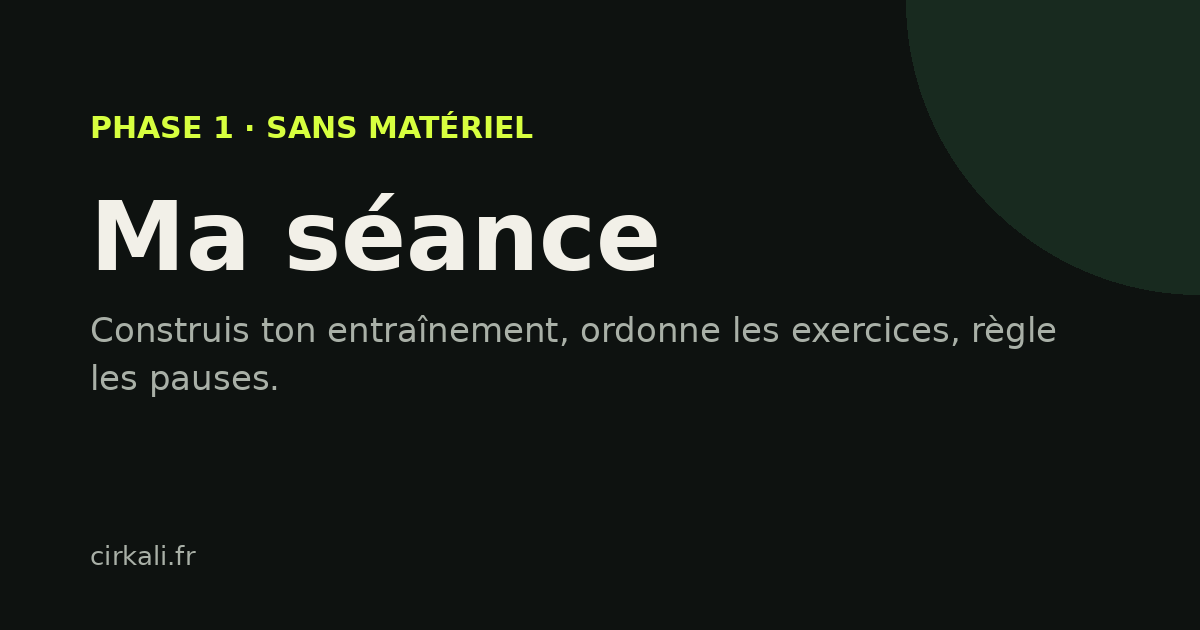
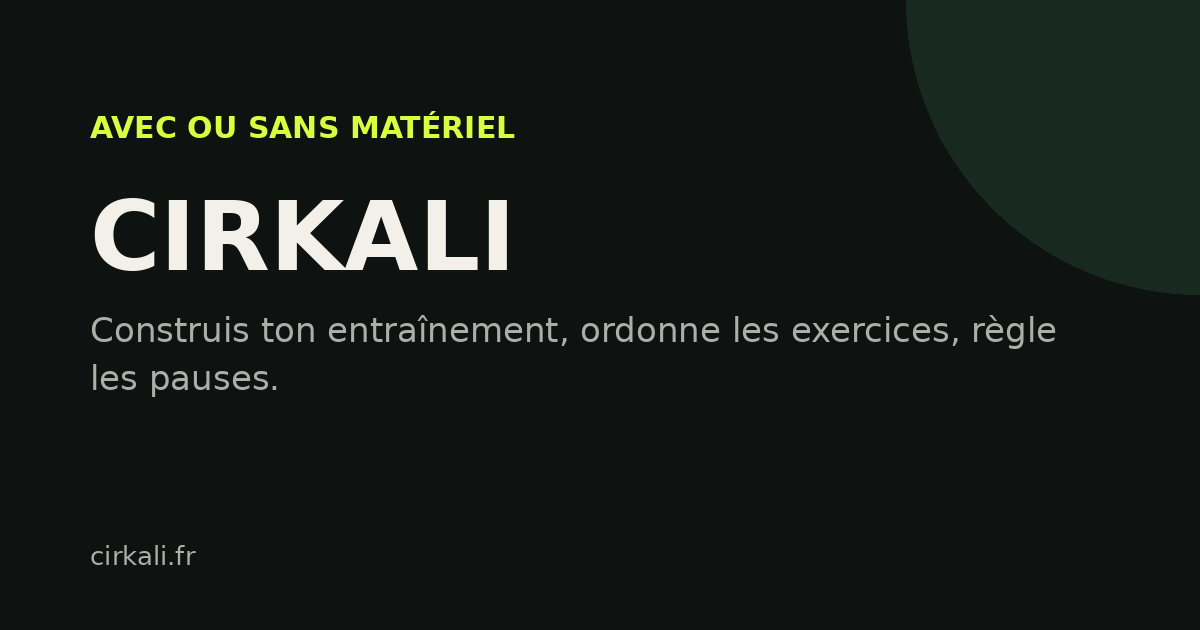
PageSpeed, second tour : charset, preload des polices, CSS integre
charset. Regression de 38b9828 : le commentaire expliquant le report de GA et
le chargeur lui-meme occupaient les 1800 premiers octets du <head> et
repoussaient <meta charset> au-dela de la limite de 1024, ou un navigateur
recommence son analyse du document. La balise repasse en tout premier, et
check-build.ts verifie desormais sa position — rien d'autre ne l'aurait vu.

Preload des polices. Elles etaient au bout de la chaine critique (HTML ->
feuille -> police, 538 ms mesures) puisque les @font-face vivent dans le CSS.
Deux balises sur l'accueil et sur les deux gabarits generes les font partir en
meme temps que le CSS. `crossorigin` est obligatoire meme en meme origine :
sans lui le prechargement ne correspond pas a la requete reelle et la police
part deux fois. Seuls les sous-ensembles latin, qui portent les accents des
cinq langues ; latin-ext ne sert qu'a des caracteres rares.

CSS integre. Derniere requete bloquante de la page : un aller-retour complet
pour 5,6 Ko. Cinquieme plugin de la famille transformIndexHtml, en order:'post'
pour avoir une balise a remplacer, inactif en dev faute de bundle. Gratuit sur
les visites repetees — le HTML est de toute facon revalide, donc le CSS voyage
avec lui ou pas du tout. L'accueil passe de 13,9 a 20,2 Ko gzip. Les 310 fiches
gardent leur feuille separee : la, une seule mise en cache sert 310 documents.

Piege corrige au passage : Vite avait calcule les url() des @font-face pour un
[…]

Changed region(s): [[0.0617, 0.3016, 0.555, 0.4524], [0.0617, 0.181, 0.4625, 0.2413]]

diff --git a/vite.config.ts b/vite.config.ts
@@ -121,6 +121,75 @@ function stampBuildDate(): Plugin {
  * plugins. La CSS garde des valeurs de repli, sans lesquelles une injection
  * ratee produirait une declaration invalide donc AUCUNE reservation.
  */
+/**
+ * Integre la feuille de style de l'accueil dans le HTML, au lieu de la lier.
+ *
+ * Un `<link rel="stylesheet">` bloque le rendu par definition : le navigateur
+ * ne peint rien tant qu'il ne l'a pas recu. Mesure sur cirkali.fr, c'etait un
+ * aller-retour reseau complet pour 5,6 Ko compresses — la derniere requete
+ * bloquante de la page une fois Google Fonts elimine.
+ *
+ * Pourquoi c'est gratuit ici, alors que « inliner le CSS » coute normalement le
+ * cache : le HTML est servi en `max-age=0, must-revalidate`, donc il est de
+ * toute facon revalide a chaque visite. Le CSS integre voyage avec lui ou pas
+ * du tout — les visites repetees font le meme nombre d'aller-retours qu'avant.
+ * Seule la premiere visite y gagne, et elle y gagne entierement.
+ *
+ * La balise est remplacee SUR PLACE plutot qu'ajoutee ailleurs : c'est ce qui
+ * garantit que le <style> de `injectLibraryRows()` (insere juste avant
+ * </head>, donc apres) continue de gagner sur les valeurs de repli du fichier
+ * CSS. Inverser les deux ferait retomber `--lib-rows-2` sur son repli et
+ * remonter le CLS, sans que rien ne casse visiblement.
+ *
+ * Ne concerne QUE l'accueil. Les 310 fiches gardent `exercises/style.css` en
+ * fichier separe : une seule feuille mise en cache puis reutilisee par 310
+ * documents, l'integrer la ferait payer 310 fois.
+ */
+function inlineStyles(): Plugin {
+  return {
+    name: 'inline-styles',
+    transformIndexHtml: {
+      // `post` : il faut que Vite ait deja injecte sa balise pour qu'il y ait
+      // quelque chose a remplacer.
+      order: 'post',
+      handler(html, ctx) {
+        // En `npm run dev` il n'y a pas de bundle : Vite sert le CSS par
+        // injection JS, il n'y a ni fichier ni balise a reprendre.
+        if (!ctx.bundle) return html;
+
+        return html.replace(/<link\b[^>]*rel="stylesheet"[^>]*>/g, (tag) => {
+          const href = /href="([^"]+)"/.exec(tag)?.[1];
+          if (!href) return tag;
+
+          const asset = ctx.bundle?.[href.replace(/^\.?\//, '')];
+          if (!asset || asset.type !== 'asset') {
+            throw new Error(
+              `inline-styles : "${href}" est liee dans index.html mais absente ` +
+                `du bundle. La forme des noms d'assets a change — sans ce ` +
+                `remplacement la page repasse en rendu bloquant, en silence.`,
+            );
+          }
+
+          const css =
+            typeof asset.source === 'string'
+              ? asset.source
+              : Buffer.from(asset.source).toString('utf8');
+
+          // Rebaser les url() relatives : Vite les a calculees pour un fichier
+          // servi depuis /assets/, or ce CSS part maintenant depuis la racine.
+          // Les @font-face sortaient en `url(../fonts/…)`, ce qui ne visait le
+          // bon fichier que parce qu'un navigateur refuse de remonter au-dessus
+          // de la racine — juste par accident, et faux des que la page n'est
+          // plus a la racine. Seules les polices sont concernees ; le chevron
+          // des selects est une data: URI, insensible au chemin.
+          const rebased = css.replace(/url\((['"]?)\.\.\//g, 'url($1/');
+          return `<style>${rebased}</style>`;
+        });
+      },
+    },
+  };
+}
+
 function injectLibraryRows(): Plugin {
   return {
     name: 'inject-library-rows',
@@ -268,7 +337,13 @@ export default defineConfig({
   // Chemins relatifs : le build fonctionne sur user.github.io/<depot>/
   // sans avoir a coder le nom du depot en dur.
   base: './',
-  plugins: [stampBuildDate(), injectExerciseIndex(), fillStaticTranslations(), injectLibraryRows()],
+  plugins: [
+    stampBuildDate(),
+    injectExerciseIndex(),
+    fillStaticTranslations(),
+    injectLibraryRows(),
+    inlineStyles(),
+  ],
   // `host: true` expose le serveur sur le reseau local : la seance se teste
   // depuis le telephone, qui est l'appareil vise.
   server: { port: 8000, host: true, strictPort: true },

diff --git a/index.html b/index.html
@@ -2,6 +2,16 @@
 <html lang="fr">
   <head>
     <!--
+      L'encodage EN PREMIER, avant tout commentaire et tout script. Un
+      navigateur qui ne l'a pas lu dans les 1024 premiers octets recommence son
+      analyse du document, et peut afficher des caracteres casses en attendant.
+      Le commentaire ci-dessous et le chargeur GA l'avaient repousse a l'octet
+      1824 — piege verifie, signale par Lighthouse. Ne rien inserer au-dessus de
+      cette ligne ; `check-build.ts` verifie la position a chaque build.
+    -->
+    <meta charset="utf-8" />
+
+    <!--
       Google tag (gtag.js), charge APRES l'affichage et non pendant.
 
       Le script pese 166 Ko pour 71 Ko reellement utilises, occupe 126 ms de
@@ -41,7 +51,6 @@
       });
     </script>
 
-    <meta charset="utf-8" />
     <meta name="viewport" content="width=device-width, initial-scale=1, viewport-fit=cover" />
     <!-- ~155 caracteres : au-dela, Google tronque dans ses resultats. -->
     <meta
@@ -127,7 +136,25 @@
       site, declarees en @font-face dans src/styles/tokens.css. Ne pas les y
       remettre — cette feuille tierce bloquait le rendu 750 ms et imposait deux
       poignees de main DNS+TLS avant le premier caractere affiche.
+
+      Le preload existe parce que les @font-face vivent dans le CSS : sans lui,
+      le navigateur doit lire le HTML, PUIS telecharger la feuille, PUIS y
+      decouvrir les polices — trois niveaux de profondeur, mesures a 538 ms de
+      latence de chemin critique. Ces deux lignes les font partir en meme temps
+      que le CSS.
+
+      `crossorigin` est OBLIGATOIRE, y compris en meme origine : une requete de
+      police part toujours en mode CORS, et sans cet attribut le prechargement
+      ne correspond pas a la requete reelle — la police est alors telechargee
+      deux fois, ce qui est pire que de ne rien precharger.
+
+      Seuls les sous-ensembles `latin` : ce sont eux qui portent les accents du
+      francais, de l'espagnol, de l'allemand et de l'italien (verifie glyphe par
+      glyphe). `latin-ext` ne sert qu'a des caracteres rares — le precharger
+      couterait 47 Ko que la plupart des pages n'affichent jamais.
     -->
+    <link rel="preload" as="font" type="font/woff2" crossorigin href="/fonts/archivo-latin.woff2" />
+    <link rel="preload" as="font" type="font/woff2" crossorigin href="/fonts/manrope-latin.woff2" />
   </head>
   <body>
     <main class="wrap">

diff --git a/scripts/check-build.ts b/scripts/check-build.ts
@@ -84,6 +84,40 @@ check('__BUILD_DATE__ remplace', !index.includes('__BUILD_DATE__'));
 // reservation de hauteur redevient fausse des que la bibliotheque grandit,
 // sans que rien ne casse (voir injectLibraryRows(), vite.config.ts).
 check('--lib-rows-2 injecte pour la reservation CLS', index.includes('--lib-rows-2:'));
+
+// Un navigateur qui n'a pas lu l'encodage dans les 1024 premiers octets
+// recommence son analyse du document. Regression deja vue : un commentaire et
+// le chargeur GA ajoutes en tete du <head> avaient repousse la balise a
+// l'octet 1824, sans que rien ne casse — seul Lighthouse l'a signale.
+const charsetAt = Buffer.from(index, 'utf8').indexOf('<meta charset');
+check(
+  '<meta charset> dans les 1024 premiers octets',
+  charsetAt >= 0 && charsetAt < 1024,
+  charsetAt < 0 ? 'balise absente' : `a l'octet ${charsetAt}`,
+);
+
+// Le CSS de l'accueil est integre (plugin inline-styles, vite.config.ts) : plus
+// aucune requete bloquante avant le premier pixel. Si la forme des assets de
+// Vite changeait, le remplacement echouerait et la page repasserait en rendu
+// bloquant sans que rien d'autre ne le signale.
+check('le CSS de l\'accueil est integre', /<style>[^]{2000,}<\/style>/.test(index));
+check(
+  'aucune feuille de style liee dans l\'accueil',
+  !/<link\b[^>]*rel="stylesheet"/.test(index),
+  /<link\b[^>]*rel="stylesheet"[^>]*>/.exec(index)?.[0] ?? '',
+);
+
+// Les polices sont declarees dans le CSS : sans preload elles ne partent
+// qu'apres son telechargement. `crossorigin` est obligatoire meme en meme
+// origine — sans lui le prechargement ne correspond pas a la requete reelle et
+// la police est telechargee deux fois.
+for (const font of ['archivo-latin', 'manrope-latin']) {
+  check(
+    `${font}.woff2 preloade avec crossorigin`,
+    new RegExp(`<link\\b[^>]*rel="preload"[^>]*crossorigin[^>]*${font}\\.woff2`).test(index) ||
+      new RegExp(`<link\\b[^>]*rel="preload"[^>]*${font}\\.woff2[^>]*crossorigin`).test(index),
+  );
+}
 check('marqueur EXERCISE_INDEX remplace', !index.includes('<!--EXERCISE_INDEX-->'));
 
 console.log('\nPages generees pour les IA');

diff --git a/scripts/build-exercise-pages.ts b/scripts/build-exercise-pages.ts
@@ -261,7 +261,14 @@ ${hreflangTags(key)}
       ])}
     </script>
 
-    <!-- Polices servies par le site : @font-face dans exercise-page.css. -->
+    <!--
+      Polices servies par le site : @font-face dans exercise-page.css. Le
+      preload les sort du bout de la chaine (HTML -> feuille -> police) ;
+      L'attribut crossorigin est obligatoire meme en meme origine, une requete
+      de police partant toujours en mode CORS. Voir index.html pour le detail.
+    -->
+    <link rel="preload" as="font" type="font/woff2" crossorigin href="/fonts/archivo-latin.woff2" />
+    <link rel="preload" as="font" type="font/woff2" crossorigin href="/fonts/manrope-latin.woff2" />
     <link rel="stylesheet" href="../style.css" />
   </head>
   <body>
@@ -488,7 +495,14 @@ function renderAiPlanPage(dict: Translations): string {
       ])}
     </script>
 
-    <!-- Polices servies par le site : @font-face dans exercise-page.css. -->
+    <!--
+      Polices servies par le site : @font-face dans exercise-page.css. Le
+      preload les sort du bout de la chaine (HTML -> feuille -> police) ;
+      L'attribut crossorigin est obligatoire meme en meme origine, une requete
+      de police partant toujours en mode CORS. Voir index.html pour le detail.
+    -->
+    <link rel="preload" as="font" type="font/woff2" crossorigin href="/fonts/archivo-latin.woff2" />
+    <link rel="preload" as="font" type="font/woff2" crossorigin href="/fonts/manrope-latin.woff2" />
     <link rel="stylesheet" href="exercises/style.css" />
   </head>
   <body>

diff --git a/scripts/generate-og-image.py b/scripts/generate-og-image.py
@@ -29,8 +29,15 @@ FONT_DIR = Path("/usr/share/fonts/truetype/dejavu")
 BOLD = FONT_DIR / "DejaVuSans-Bold.ttf"
 REGULAR = FONT_DIR / "DejaVuSans.ttf"
 
-EYEBROW = "PHASE 1 · SANS MATÉRIEL"
-TITLE = "Ma séance"
+# Ces quatre valeurs doivent refléter le bloc `app` de src/i18n/locales/fr.ts
+# (heading, eyebrow, tagline) et l'origine canonique. Elles ne peuvent pas en
+# être dérivées — ce script est en Python et fr.ts en TypeScript — donc c'est un
+# couplage à tenir à la main. Il avait déjà lâché deux fois : l'image annonçait
+# encore « Ma séance » alors que l'app s'appelle CIRKALI, et « PHASE 1 · SANS
+# MATÉRIEL » alors que la bibliothèque couvre élastique, haltères et machine.
+# C'est la vignette de tout partage sur les réseaux : personne ne la relit.
+EYEBROW = "AVEC OU SANS MATÉRIEL"
+TITLE = "CIRKALI"
 TAGLINE = "Construis ton entraînement, ordonne les exercices, règle les pauses."
 FOOTER = "cirkali.fr"
 
